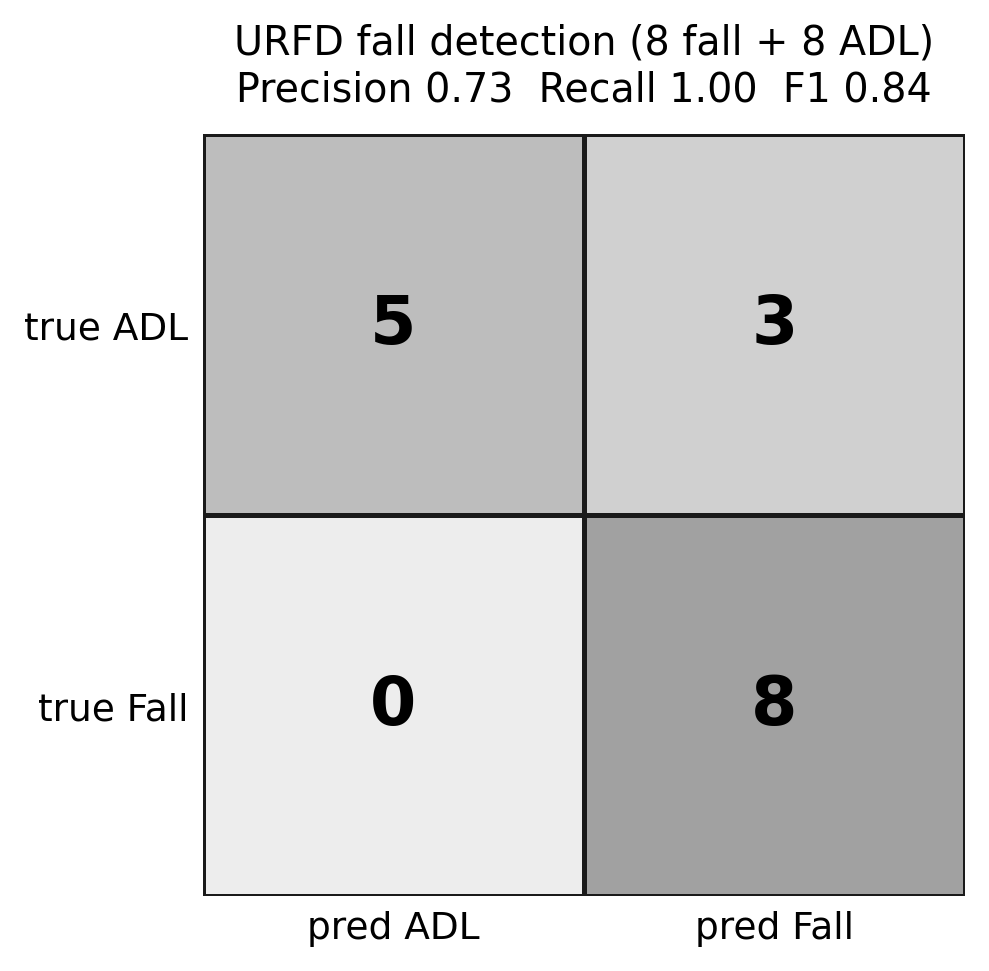
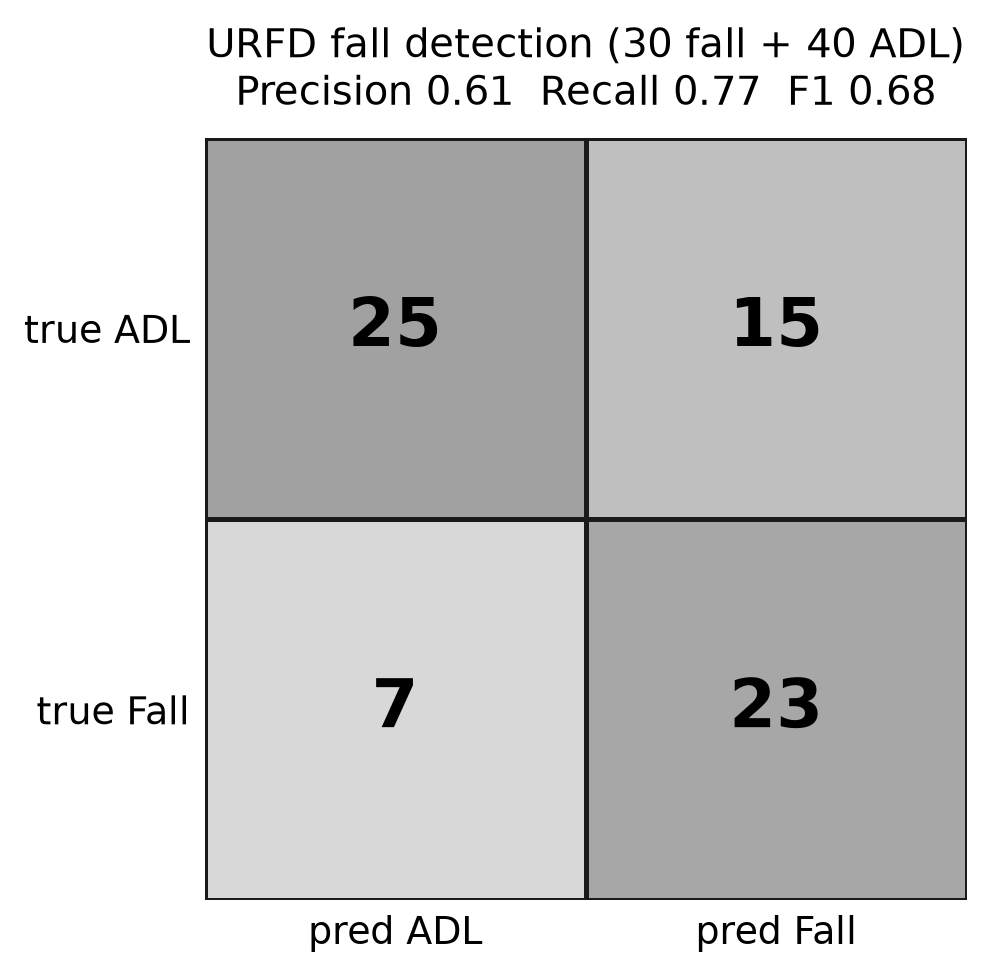
Dual-run URFD reporting: full-70 headline (recall 0.77/F1 0.68) + subset context + failure-mode diagnostics

diff --git a/index.html b/index.html
@@ -4,7 +4,7 @@
 <meta charset="utf-8" />
 <meta name="viewport" content="width=device-width, initial-scale=1" />
 <title>SHine-K — 브라우저가 곧 엣지 AI · 영상무전송 중소제조 안전관제 플랫폼</title>
-<meta name="description" content="SHine-K: 설치 없는 브라우저 엣지 AI로 영상 없이 다중 사업장을 관제하는 근로자 안전·건강 플랫폼. Sensors (MDPI) 투고 논문 공식 사이트 — URFD 낙상 감지 recall 1.00 · F1 0.84." />
+<meta name="description" content="SHine-K: 설치 없는 브라우저 엣지 AI로 영상 없이 다중 사업장을 관제하는 근로자 안전·건강 플랫폼. Sensors (MDPI) 투고 논문 공식 사이트 — URFD 전체 70시퀀스 recall 0.77·F1 0.68 (표준자세 부분집합 recall 1.00·F1 0.84)." />
 <meta property="og:title" content="SHine-K — Edge-AI, Video-Free Worker Safety Platform" />
 <meta property="og:description" content="The browser is the edge node. Video-free, zero-install worker safety monitoring for SME manufacturing — with a live simulation twin and a real in-browser demo." />
 <meta property="og:type" content="website" />
@@ -56,9 +56,9 @@
           픽셀은 단 하나도 — 전송합니다.
         </p>
         <div class="hero-stats">
-          <div class="hstat ok"><b data-count="1.00" data-dec="2">1.00</b><span>URFD RECALL (8/8 낙상)</span></div>
-          <div class="hstat"><b data-count="0.84" data-dec="2">0.84</b><span>F1 SCORE</span></div>
-          <div class="hstat"><b>≈3.3<small>s</small></b><span>중앙값 감지 지연</span></div>
+          <div class="hstat ok"><b data-count="0.77" data-dec="2">0.77</b><span>URFD RECALL · 전체 23/30</span></div>
+          <div class="hstat"><b data-count="0.68" data-dec="2">0.68</b><span>F1 · FULL 70시퀀스</span></div>
+          <div class="hstat"><b>≈1.9<small>s</small></b><span>중앙값 감지 지연</span></div>
           <div class="hstat"><b>0.11<small>ms</small></b><span>후처리/프레임</span></div>
           <div class="hstat"><b>×10²⁻³</b><span>업링크 절감 vs 영상</span></div>
         </div>
@@ -67,7 +67,7 @@
           <a class="btn-ghost" href="console.html#live" data-en="Try Live Edge (Your Webcam)">라이브 엣지 체험 (내 웹캠)</a>
           <a class="btn-ghost" href="portal.html" data-en="Service Portal (Prototype)">서비스 포털 (프로토타입)</a>
         </div>
-        <p class="hero-run">run_20260627_222419 · thresholds unchanged from deployment · seed 20260722</p>
+        <p class="hero-run">run_20260722_195713_full70 (전체) · run_20260627_222419 (부분집합) · thresholds unchanged · seed 20260722</p>
       </div>
       <div class="hero-vis">
         <span class="tag">CONTROL TWIN — EVENT-ONLY UPLINK</span>
@@ -195,20 +195,22 @@
 
     <div class="res-grid">
       <div class="res-card reveal">
-        <h4 data-en="Confusion matrix — 16 sequences">혼동 행렬 — 16 시퀀스 (낙상 8 · 일상동작 8)</h4>
+        <h4 data-en="Confusion matrix — FULL benchmark, 70 sequences">혼동 행렬 — 전체 70 시퀀스 (낙상 30 · 일상동작 40)</h4>
         <div class="conf-grid">
-          <div class="conf-cell" style="background:var(--ok-bg)"><b style="color:var(--ok)">8</b><span style="color:var(--ok)">TP 낙상적중</span></div>
-          <div class="conf-cell" style="background:var(--warn-bg)"><b style="color:var(--warn)">3</b><span style="color:var(--warn)">FP 오탐</span></div>
-          <div class="conf-cell" style="background:#F0F3F7"><b style="color:var(--ink-3)">0</b><span style="color:var(--ink-3)">FN 놓침</span></div>
-          <div class="conf-cell" style="background:rgba(49,130,246,.08)"><b style="color:var(--blue)">5</b><span style="color:var(--blue)">TN 정상판정</span></div>
+          <div class="conf-cell" style="background:var(--ok-bg)"><b style="color:var(--ok)">23</b><span style="color:var(--ok)">TP 낙상적중</span></div>
+          <div class="conf-cell" style="background:var(--warn-bg)"><b style="color:var(--warn)">15</b><span style="color:var(--warn)">FP 오탐</span></div>
+          <div class="conf-cell" style="background:var(--danger-bg)"><b style="color:var(--danger)">7</b><span style="color:var(--danger)">FN 놓침</span></div>
+          <div class="conf-cell" style="background:rgba(49,130,246,.08)"><b style="color:var(--blue)">25</b><span style="color:var(--blue)">TN 정상판정</span></div>
         </div>
         <div class="metric-row">
-          <div class="m"><b style="color:var(--ok)">1.00</b><span>RECALL</span></div>
-          <div class="m"><b>0.73</b><span>PRECISION</span></div>
-          <div class="m"><b>0.84</b><span>F1</span></div>
-          <div class="m"><b>0.81</b><span>ACCURACY</span></div>
+          <div class="m"><b style="color:var(--ok)">0.77</b><span>RECALL</span></div>
+          <div class="m"><b>0.61</b><span>PRECISION</span></div>
+          <div class="m"><b>0.68</b><span>F1</span></div>
+          <div class="m"><b>0.69</b><span>ACCURACY</span></div>
         </div>
-        <span class="ref">§4.1 · Table 3 · run_20260627_222419</span>
+        <p style="font-size:12.5px;color:var(--ink-2);margin-top:10px" data-en="Standing-fall subset (8 falls + 8 ADL): recall 1.00 · precision 0.73 · F1 0.84 — the full run confirms the manuscript's own caution that the subset bounds, not represents, benchmark performance.">
+          표준자세 부분집합(낙상 8+ADL 8): recall 1.00 · precision 0.73 · F1 0.84 — 전체 런은 "부분집합 수치는 상한"이라던 원고 자체 경고가 옳았음을 확인했습니다.</p>
+        <span class="ref">§4.1 · Table 3 · run_20260722_195713_full70 + run_20260627_222419</span>
       </div>
 
       <div class="res-card reveal">
@@ -216,12 +218,13 @@
         <div class="lat-strip" id="lat-strip" aria-label="낙상 시퀀스별 감지 지연: 150, 81, 202, 41, 118, 57, 122, 51 프레임"></div>
         <p class="mono" style="font-size:11px;color:var(--ink-3);margin-top:6px">fall-01…08: 150 · 81 · 202 · 41 · 118 · 57 · 122 · 51 frames</p>
         <div class="metric-row">
-          <div class="m"><b>99.5</b><span>중앙값 프레임 ≈ 3.3 s</span></div>
+          <div class="m"><b>57</b><span>중앙값 프레임 ≈ 1.9 s (전체 런)</span></div>
           <div class="m"><b>700<small>ms</small></b><span>확인지연 포함</span></div>
         </div>
-        <p style="font-size:12.5px;color:var(--ink-2);margin-top:10px" data-en="The 3 false positives were deep-bending/lying activities — the expected confusion for a posture+inactivity machine, and the one most fixable by a short confirmation delay.">
-          오탐 3건은 깊이 숙임·눕기 동작 — 자세+무동작 상태머신의 예상된 혼동이며, 짧은 확인지연으로 가장 쉽게 개선되는 유형입니다.</p>
-        <span class="ref">§4.1 · Figure 4 · eval_per_sequence.csv</span>
+        <p style="font-size:12.5px;color:var(--ink-2);margin-top:10px" data-en="Per-frame diagnostics: missed falls crossed thresholds only transiently (max tilt to 89°) but never sustained the 700-ms window; false alarms split into deep-bending vs deliberate lying-down classes.">
+          프레임 진단 결과: 미탐 7건은 임계값을 순간적으로만 통과(최대 tilt 89°)하고 700ms 확인창을 지속하지 못했으며,
+          오탐 15건은 깊은 숙임형과 의도적 눕기형으로 갈립니다 — 막대는 부분집합 런의 감지 지연.</p>
+        <span class="ref">§4.1 · Figure 4 · eval_per_sequence.csv (양쪽 런)</span>
       </div>
 
       <div class="res-card reveal">
@@ -241,15 +244,16 @@
     </div>
 
     <figure class="arch-fig small reveal">
-      <img src="img/Figure4.png" alt="URFD 낙상 감지 혼동행렬 논문 원본: TP 8, FP 3, FN 0, TN 5 — precision 0.73, recall 1.00, F1 0.84" loading="lazy" />
-      <figcaption data-en="Figure 4 (paper original) — the same confusion matrix as reported in the manuscript, generated by the reproducibility notebook (run_20260627_222419).">
-        Figure 4 (논문 원본) — 원고에 보고된 혼동행렬 그대로, 재현 노트북이 생성 (run_20260627_222419)</figcaption>
+      <img src="img/Figure4.png" alt="URFD 전체 70시퀀스 혼동행렬: TP 23, FP 15, FN 7, TN 25 — precision 0.61, recall 0.77, F1 0.68" loading="lazy" />
+      <figcaption data-en="Figure 4 (paper original) — full 70-sequence confusion matrix, generated by the reproducibility notebook (run_20260722_195713_full70).">
+        Figure 4 (논문 원본) — 전체 70시퀀스 혼동행렬, 재현 노트북 생성 (run_20260722_195713_full70)</figcaption>
     </figure>
 
-    <div class="caveat reveal" data-en="Honest bound: URFD is clean, single-subject, fixed-camera lab footage and only 8 fall sequences. This validates the pose→state-machine logic and bounds — rather than equals — shop-floor performance. Recall 1.00 is a subset result, not a population guarantee (paper §4.1 verbatim).">
-      <b>정직한 한계.</b> URFD는 단일 인물·고정 카메라의 깨끗한 실험실 영상이며 낙상 시퀀스는 8개뿐입니다.
-      이 결과는 포즈→상태머신 로직의 타당성을 입증하고 현장 성능의 <b>상한을 제시</b>할 뿐, 현장 성능 그 자체가 아닙니다.
-      Recall 1.00은 부분집합 결과이지 모집단 보장이 아닙니다 (논문 §4.1 원문 그대로).
+    <div class="caveat reveal" data-en="Honest bound: URFD is clean, single-subject, fixed-camera lab footage. The full 70-sequence run measured what the subset could only warn about (recall 0.77 vs 1.00) and shows the failure modes are structured — camera-axis foreshortening, unfinished confirmation windows in short clips, deliberate lying-down. Even the full result bounds, not equals, shop-floor performance (§4.1).">
+      <b>정직한 한계.</b> URFD는 단일 인물·고정 카메라의 깨끗한 실험실 영상입니다. 전체 70시퀀스 런은 부분집합의
+      recall 1.00이 상한이었음을 실측으로 확인해 주었고(전체 0.77), 실패 유형이 구조적임을 보여줍니다 —
+      카메라 축 방향 낙상의 원근 은폐, 짧은 클립에서의 확인창 미완, 의도적 눕기. 전체 결과조차 현장 성능의
+      <b>상한 근거</b>일 뿐이며, 현장 파일럿은 남은 과제입니다 (논문 §4.1).
     </div>
   </div>
 </section>

diff --git a/console.html b/console.html
@@ -184,22 +184,22 @@
 
     <!-- ═══════════ #evidence ═══════════ -->
     <section class="route" id="route-evidence">
-      <span class="mode-badge live">⟦ MEASURED ⟧ 논문에 보고된 측정 결과 — run_20260627_222419</span>
+      <span class="mode-badge live">⟦ MEASURED ⟧ 논문에 보고된 측정 결과 — 전체 run_20260722_195713_full70 · 부분집합 run_20260627_222419</span>
 
       <div class="panel">
-        <h3>URFD 낙상 감지 — 배포 로직 그대로, 재튜닝 없음</h3>
+        <h3>URFD 낙상 감지 — 배포 로직 그대로, 재튜닝 없음 (전체 70시퀀스 기준)</h3>
         <div class="evi-grid">
-          <div class="evi-card"><b class="big" style="color:var(--ok)">1.00</b><span class="cap">Recall — 낙상 8/8 전건 감지. <b>단, 8시퀀스 랩 부분집합 결과</b>이며 현장 성능의 상한 근거로만 해석(논문 §4.1 원문 주의사항).</span></div>
-          <div class="evi-card"><b class="big">0.84</b><span class="cap">F1 (precision 0.73) — 오탐 3건은 깊이 숙임·눕기 동작, 자세+무동작 상태머신의 예상된 혼동.</span></div>
-          <div class="evi-card"><b class="big">≈3.3 s</b><span class="cap">중앙값 감지 지연 (99.5프레임 @30fps) — 700 ms 확인지연 포함.</span></div>
+          <div class="evi-card"><b class="big" style="color:var(--ok)">0.77</b><span class="cap">Recall — 전체 30낙상 중 23건 감지. 부분집합(8+8)에서는 1.00이었으나 전체 런이 상한이었음을 확인 — 미탐은 임계값을 순간 통과 후 700ms 확인창을 지속 못한 사례들(§4.1).</span></div>
+          <div class="evi-card"><b class="big">0.68</b><span class="cap">F1 (precision 0.61) — 오탐 15건은 깊은 숙임형 vs 의도적 눕기형으로 구조적 분리(부분집합 F1 0.84).</span></div>
+          <div class="evi-card"><b class="big">≈1.9 s</b><span class="cap">중앙값 감지 지연 — 전체 런 57프레임 @30fps (부분집합 99.5프레임 ≈3.3 s), 700 ms 확인지연 포함.</span></div>
           <div class="evi-card"><b class="big">0.11 ms</b><span class="cap">프레임당 후처리(REBA+화재 픽셀스캔, Colab x86 vCPU) — 병목은 신경망 추론이지 SHine-K 로직이 아님.</span></div>
           <div class="evi-card">
-            <span class="micro">Confusion (n=16)</span>
+            <span class="micro">Confusion (전체 n=70)</span>
             <div class="conf-mini">
-              <div style="background:var(--ok-bg);color:var(--ok)">TP 8</div>
-              <div style="background:var(--warn-bg);color:var(--warn)">FP 3</div>
-              <div style="background:var(--elev);color:var(--ink-3)">FN 0</div>
-              <div style="background:rgba(49,130,246,.1);color:var(--blue)">TN 5</div>
+              <div style="background:var(--ok-bg);color:var(--ok)">TP 23</div>
+              <div style="background:var(--warn-bg);color:var(--warn)">FP 15</div>
+              <div style="background:var(--danger-bg);color:var(--danger)">FN 7</div>
+              <div style="background:rgba(49,130,246,.1);color:var(--blue)">TN 25</div>
             </div>
           </div>
           <div class="evi-card"><b class="big" style="color:var(--cyan)">×10²–10³</b><span class="cap">업링크 절감 — 근로자당 스켈레톤 수 kbps vs H.264 스트림. 지금 이 콘솔의 업링크 패널이 같은 메시지 스키마로 실측 재현 중.</span></div>

diff --git a/js/shinek-core.js b/js/shinek-core.js
@@ -112,7 +112,19 @@
     return r;
   }
 
-  /* URFD evaluation results shipped with the paper (run_20260627_222419) */
+  /* Full 70-sequence URFD run (run_20260722_195713_full70) — headline result */
+  var URFD_EVAL_FULL = {
+    dataset: 'UR Fall Detection (URFD), cam0 RGB — FULL benchmark',
+    model: 'MoveNet MultiPose Lightning (TF-Hub)',
+    run: 'run_20260722_195713_full70',
+    nFall: 30, nAdl: 40,
+    counts: { TP: 23, FP: 15, FN: 7, TN: 25 },
+    precision: 0.6053, recall: 0.7667, f1: 0.6765, accuracy: 0.6857,
+    latencyFrames: { mean: 76.52, median: 57 },
+    failureModes: 'Misses crossed thresholds only transiently (max tilt to 89°) without sustaining the 700 ms window; false alarms split into sustained deep-bending vs deliberate lying-down classes.'
+  };
+
+  /* Standing-fall subset shipped with the early validation (run_20260627_222419) */
   var URFD_EVAL = {
     dataset: 'UR Fall Detection (URFD), cam0 RGB',
     model: 'MoveNet MultiPose Lightning (TF-Hub)',
@@ -133,5 +145,5 @@
     ]
   };
 
-  global.SHineK = { FallSM: FallSM, rebaLevel: rebaLevel, URFD_EVAL: URFD_EVAL, ACT_IDX: ACT_IDX };
+  global.SHineK = { FallSM: FallSM, rebaLevel: rebaLevel, URFD_EVAL: URFD_EVAL, URFD_EVAL_FULL: URFD_EVAL_FULL, ACT_IDX: ACT_IDX };
 })(typeof window !== 'undefined' ? window : this);
